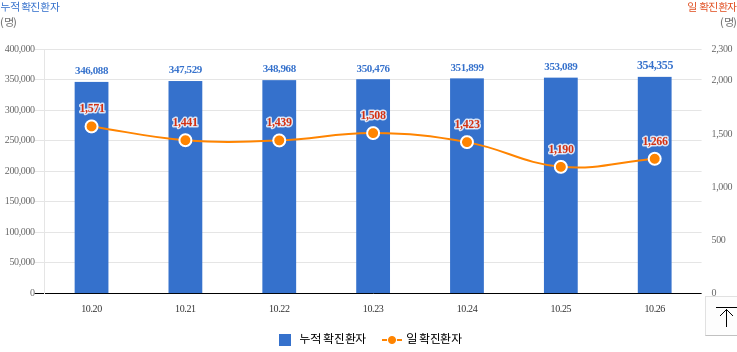
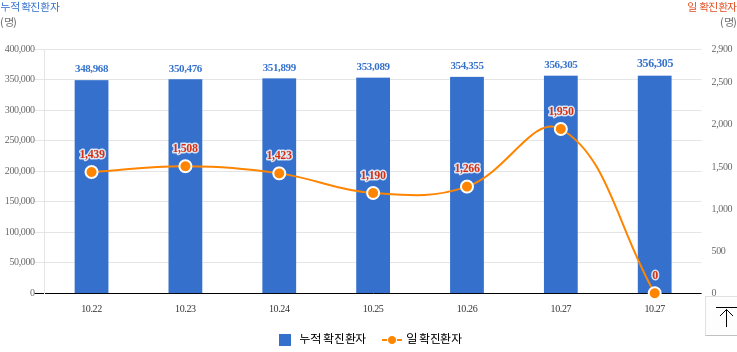
Run crawler and update current data

diff --git a/data.js b/data.js
@@ -1,13 +1,13 @@
-var 날짜 = '2021. 10. 26. (화)  13시 기준';
-var 계 = '1,790';
+var 날짜 = '2021. 10. 27. (수)  10시 기준';
+var 계 = '1,791';
 var 완치 = '1,760';
-var 입원중 = '27';
+var 입원중 = '28';
 var 사망자 = '3';
-var 검사중 = '1,730';
-var 검사결과 = '484,808';
-var 자가격리자 = '222';
+var 검사중 = '2,022';
+var 검사결과 = '486,538';
+var 자가격리자 = '187';
 var 거리두기단계 = '사회적 거리두기  3단계 시행 : 2021. 10. 18.(월) 0시 ~ 10. 31.(일) 24시';
-var 국내발생 = '1,246';
-var 해외발생 = '20';
-var 합계 = '1266';
+var 국내발생 = '1,930';
+var 해외발생 = '22';
+var 합계 = '1952';
 var data = [];
